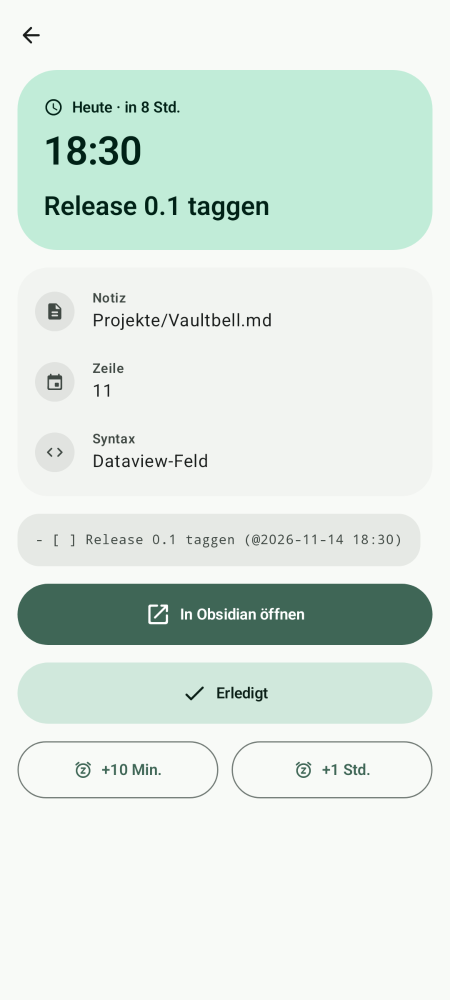
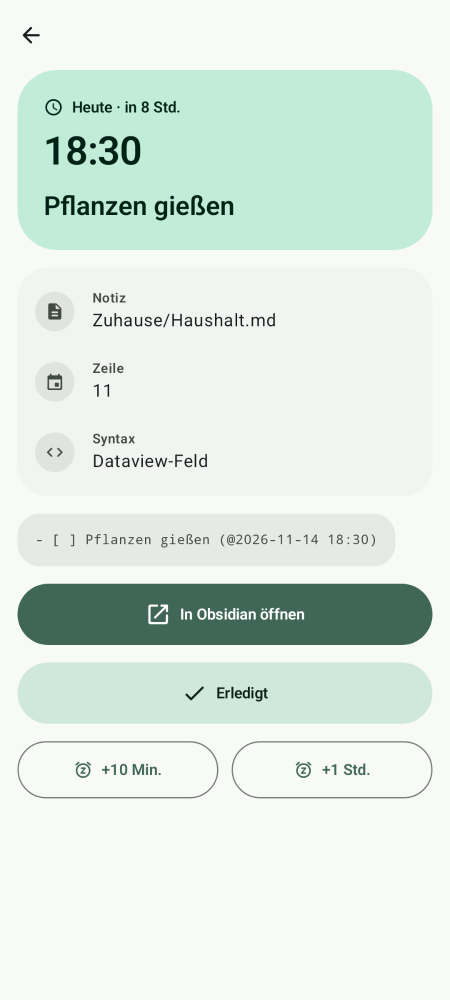
docs: neutral dummy data in previews, store screenshots and widget preview
Localized example reminders (EN/DE) without personal content; onboarding
syntax example moved to string resources.

Claude-Session: https://claude.ai/code/session_011dDcQU8G47z3xi6UGb4AyG

diff --git a/app/src/main/java/io/github/descomanian/vaultbell/ui/preview/PreviewData.kt b/app/src/main/java/io/github/descomanian/vaultbell/ui/preview/PreviewData.kt
@@ -29,15 +29,42 @@ object PreviewData {
         format = format
     )
 
-    val reminders: List<Reminder> =
+    private data class Item(
+        val en: String,
+        val de: String,
+        val pathEn: String,
+        val pathDe: String
+    )
+
+    private val items =
         listOf(
-            r(1, "Rechnung an Kunde schicken", now.minusDays(1).withHour(17).withMinute(0), "Arbeit/simpleIT.md"),
-            r(2, "Zahnarzt anrufen", now.minusMinutes(24), "Daily/2026-11-14.md"),
-            r(3, "Wäsche abholen", now.withHour(13).withMinute(0), "Daily/2026-11-14.md", explicit = false),
-            r(4, "Release 0.1 taggen", now.withHour(18).withMinute(30), "Projekte/Vaultbell.md", format = ReminderFormat.DATAVIEW),
-            r(5, "Mama zurückrufen", now.withHour(19).withMinute(15), "Daily/2026-11-14.md", snoozed = true),
-            r(6, "Atemschutz-Übung", now.plusDays(1).withHour(19).withMinute(0), "Feuerwehr/Termine.md"),
-            r(7, "Screenshots für F-Droid", now.plusDays(3).withHour(10).withMinute(15), "Projekte/Vaultbell.md"),
-            r(8, "Coursera Modul 3 abschließen", now.plusDays(6).withHour(20).withMinute(0), "Kurse/Cyber Security.md")
+            Item("Send project proposal", "Projektangebot verschicken", "Work/Projects.md", "Arbeit/Projekte.md"),
+            Item("Call the dentist", "Zahnarzt anrufen", "Daily/2026-11-14.md", "Daily/2026-11-14.md"),
+            Item("Pick up dry cleaning", "Reinigung abholen", "Daily/2026-11-14.md", "Daily/2026-11-14.md"),
+            Item("Water the plants", "Pflanzen gießen", "Home/Chores.md", "Zuhause/Haushalt.md"),
+            Item("Book train tickets", "Zugtickets buchen", "Travel/Lisbon trip.md", "Reisen/Lissabon.md"),
+            Item("Team retro", "Team-Retro", "Work/Meetings.md", "Arbeit/Meetings.md"),
+            Item("Return library books", "Bücher zur Bibliothek bringen", "Errands.md", "Besorgungen.md"),
+            Item("Finish chapter 4 notes", "Notizen zu Kapitel 4 fertig machen", "Reading/Book notes.md", "Lesen/Buchnotizen.md")
         )
+
+    /** Neutral dummy reminders for previews, store screenshots and posts. No personal data. */
+    fun reminders(german: Boolean = false): List<Reminder> {
+        fun t(i: Int) = if (german) items[i].de else items[i].en
+        fun p(i: Int) = if (german) items[i].pathDe else items[i].pathEn
+        return listOf(
+            r(1, t(0), now.minusDays(1).withHour(17).withMinute(0), p(0)),
+            r(2, t(1), now.minusMinutes(24), p(1)),
+            r(3, t(2), now.withHour(13).withMinute(0), p(2), explicit = false),
+            r(4, t(3), now.withHour(18).withMinute(30), p(3), format = ReminderFormat.DATAVIEW),
+            r(5, t(4), now.withHour(19).withMinute(15), p(4), snoozed = true),
+            r(6, t(5), now.plusDays(1).withHour(10).withMinute(0), p(5)),
+            r(7, t(6), now.plusDays(3).withHour(16).withMinute(30), p(6)),
+            r(8, t(7), now.plusDays(6).withHour(20).withMinute(0), p(7))
+        )
+    }
+
+    val reminders: List<Reminder> get() = reminders(german = false)
+
+    const val VAULT_NAME = "My Vault"
 }

diff --git a/app/src/main/java/io/github/descomanian/vaultbell/ui/onboarding/OnboardingScreen.kt b/app/src/main/java/io/github/descomanian/vaultbell/ui/onboarding/OnboardingScreen.kt
@@ -66,6 +66,7 @@ import io.github.descomanian.vaultbell.designsystem.component.TonalIcon
 import io.github.descomanian.vaultbell.designsystem.rememberHaptics
 import io.github.descomanian.vaultbell.designsystem.theme.Spacing
 import io.github.descomanian.vaultbell.designsystem.theme.VaultbellTheme
+import io.github.descomanian.vaultbell.ui.preview.PreviewData
 
 data class OnboardingActions(
     val onNext: () -> Unit = {},
@@ -362,7 +363,7 @@ private fun DonePage(state: OnboardingUiState) {
     Spacer(Modifier.height(Spacing.xs))
     Surface(shape = MaterialTheme.shapes.medium, color = MaterialTheme.colorScheme.surfaceContainerHigh) {
         Text(
-            "- [ ] Zahnarzt anrufen (@2026-11-14 18:30)\n- [ ] Müll rausbringen (@2026-11-15)",
+            stringResource(R.string.onboarding_syntax_example),
             fontFamily = FontFamily.Monospace,
             style = MaterialTheme.typography.bodySmall,
             modifier = Modifier.fillMaxWidth().padding(Spacing.md),
@@ -399,8 +400,8 @@ private fun OnboardingVaultPreview() {
             OnboardingUiState(
                 step = OnboardingStep.VAULT,
                 vaultUri = "content://x",
-                vaultFolderName = "SebiMain",
-                vaultName = "SebiMain",
+                vaultFolderName = PreviewData.VAULT_NAME,
+                vaultName = PreviewData.VAULT_NAME,
                 hasObsidianFolder = true
             ),
             OnboardingActions()
@@ -421,7 +422,7 @@ private fun OnboardingExactPreview() {
 private fun OnboardingDonePreview() {
     VaultbellTheme(dynamicColor = false) {
         OnboardingScreen(
-            OnboardingUiState(step = OnboardingStep.DONE, vaultName = "SebiMain", notificationsGranted = true),
+            OnboardingUiState(step = OnboardingStep.DONE, vaultName = PreviewData.VAULT_NAME, notificationsGranted = true),
             OnboardingActions()
         )
     }

diff --git a/app/src/main/java/io/github/descomanian/vaultbell/ui/detail/DetailScreen.kt b/app/src/main/java/io/github/descomanian/vaultbell/ui/detail/DetailScreen.kt
@@ -316,7 +316,7 @@ fun openInObsidian(
 private fun DetailPreview() {
     VaultbellTheme(dynamicColor = false) {
         DetailScreen(
-            state = DetailUiState(loading = false, reminder = PreviewData.reminders[3], vaultName = "SebiMain"),
+            state = DetailUiState(loading = false, reminder = PreviewData.reminders[3], vaultName = PreviewData.VAULT_NAME),
             actions = DetailActions(),
             now = PreviewData.now
         )
@@ -328,7 +328,7 @@ private fun DetailPreview() {
 private fun DetailOverduePreview() {
     VaultbellTheme(dynamicColor = false) {
         DetailScreen(
-            state = DetailUiState(loading = false, reminder = PreviewData.reminders[1], vaultName = "SebiMain"),
+            state = DetailUiState(loading = false, reminder = PreviewData.reminders[1], vaultName = PreviewData.VAULT_NAME),
             actions = DetailActions(),
             now = PreviewData.now
         )
@@ -343,7 +343,7 @@ private fun DetailSnoozedPreview() {
             state = DetailUiState(
                 loading = false,
                 reminder = PreviewData.reminders[4].copy(originalDue = PreviewData.now.withHour(18)),
-                vaultName = "SebiMain"
+                vaultName = PreviewData.VAULT_NAME
             ),
             actions = DetailActions(),
             now = PreviewData.now

diff --git a/app/src/main/java/io/github/descomanian/vaultbell/ui/settings/SettingsScreen.kt b/app/src/main/java/io/github/descomanian/vaultbell/ui/settings/SettingsScreen.kt
@@ -105,6 +105,7 @@ import io.github.descomanian.vaultbell.system.SystemStatus
 import io.github.descomanian.vaultbell.ui.common.ChoiceDialog
 import io.github.descomanian.vaultbell.ui.common.formatMinutes
 import io.github.descomanian.vaultbell.ui.common.inSentence
+import io.github.descomanian.vaultbell.ui.preview.PreviewData
 import java.time.LocalTime
 
 data class SettingsActions(
@@ -745,7 +746,7 @@ private val previewState =
         AppSettings(
             onboardingDone = true,
             vaultUri = "content://preview",
-            vaultName = "SebiMain",
+            vaultName = PreviewData.VAULT_NAME,
             excludeFolders = listOf("Archiv", "Templates"),
             preReminderEnabled = true,
             lastScanAt = System.currentTimeMillis() - 3 * 60_000,
@@ -753,7 +754,7 @@ private val previewState =
         ),
         status = SystemStatus(notificationsAllowed = true, exactAlarmsAllowed = false, batteryUnrestricted = false),
         activeCount = 12,
-        vaultFolderName = "SebiMain"
+        vaultFolderName = PreviewData.VAULT_NAME
     )
 
 @ThemePreviews

diff --git a/app/src/main/java/io/github/descomanian/vaultbell/ui/home/HomeScreen.kt b/app/src/main/java/io/github/descomanian/vaultbell/ui/home/HomeScreen.kt
@@ -603,7 +603,7 @@ private fun previewState(): HomeUiState {
         sections = sections,
         totalCount = PreviewData.reminders.size,
         lastScanAt = System.currentTimeMillis() - 4 * 60_000,
-        vaultName = "SebiMain",
+        vaultName = PreviewData.VAULT_NAME,
         now = now
     )
 }
